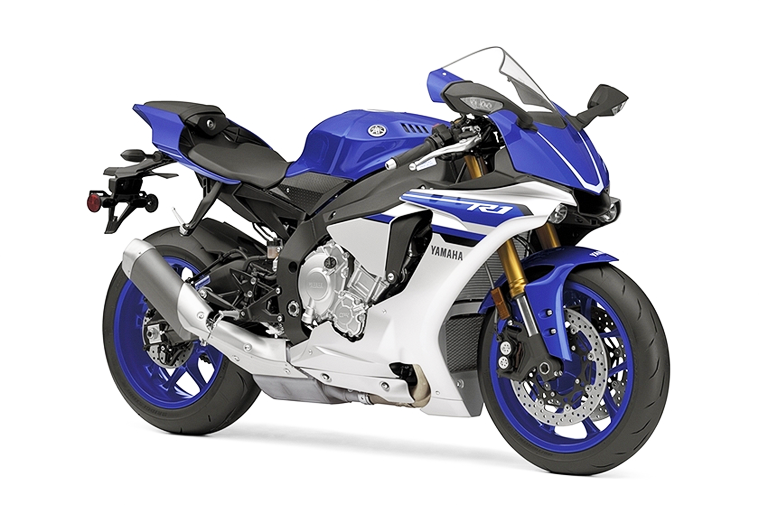
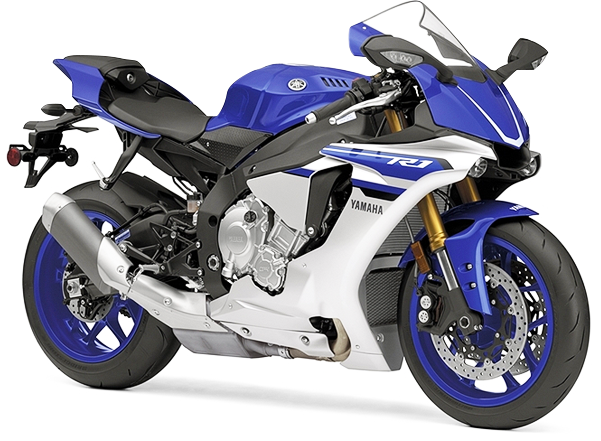
power & moto coplite :D

diff --git a/index.html b/index.html
@@ -86,7 +86,7 @@
         <div class="description layout-plan borders">
             <div class="description-image">
                 <img class="power" src="img\description\POWER.png" alt="надпись 'power'">
-                <img class="moto" src="img\description\Без имени-1.png" alt="фото мотоцикла">
+                <img class="moto" src="img\description\Layer 7.png" alt="фото мотоцикла">
             </div><!---54% vs 46-->
             <div class="description-text borders">
                 2                

diff --git a/style.css b/style.css
@@ -136,19 +136,22 @@ nav li {
   width: 54%;
   float: left;
   box-sizing: border-box;
-  padding: 110px 40px;
+  padding: 110px 0px;
   position: relative;
 }
 .power {
   display: block;
-  margin: 0 auto;
-  width: 100%;/*594px;*/
+  /*margin: 0 auto;*/
+  width: 586px;/*100%;594px;*/
 }
 .moto {
-  position: absolute;
-  width: 108%;
-  top: 125px;
-  right: -15px;
+  position: relative;
+  width: 610x;/*108%;*/
+  bottom: 125px;
+  right: 0px;
+
+/*  top: 125px;
+  right: -15px;*/
 }
 .description-text {
   width: 46%;
